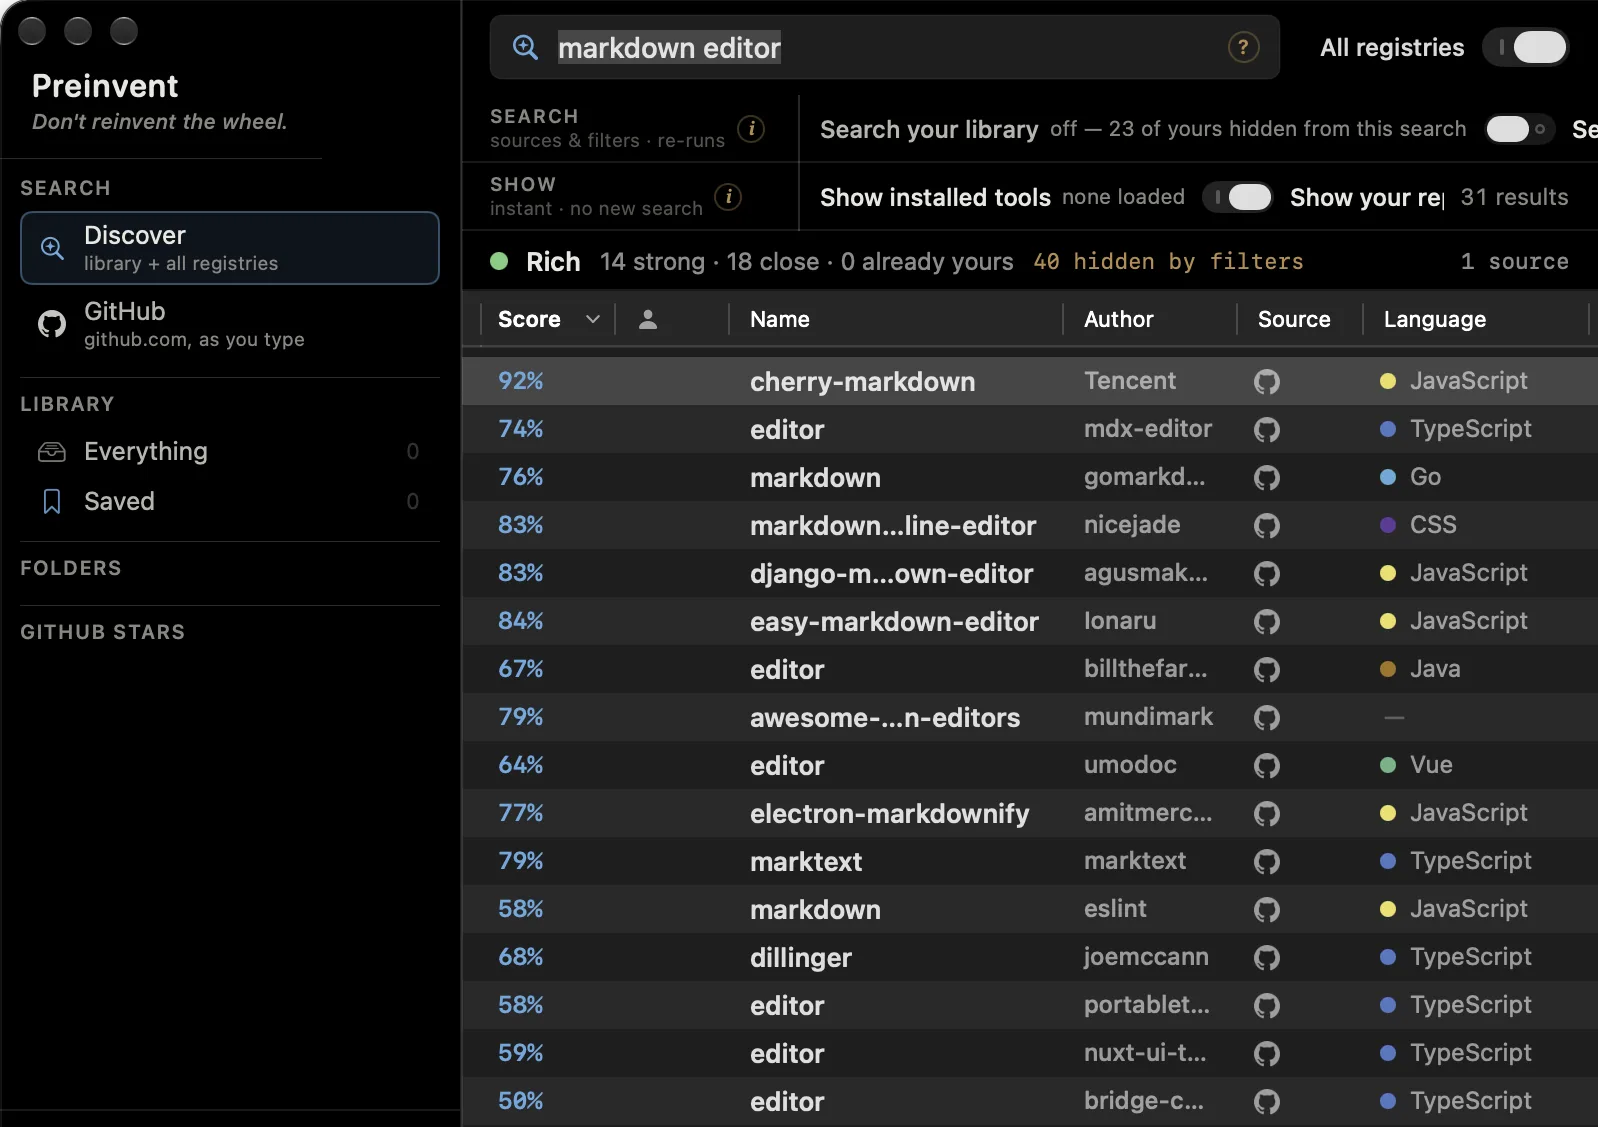
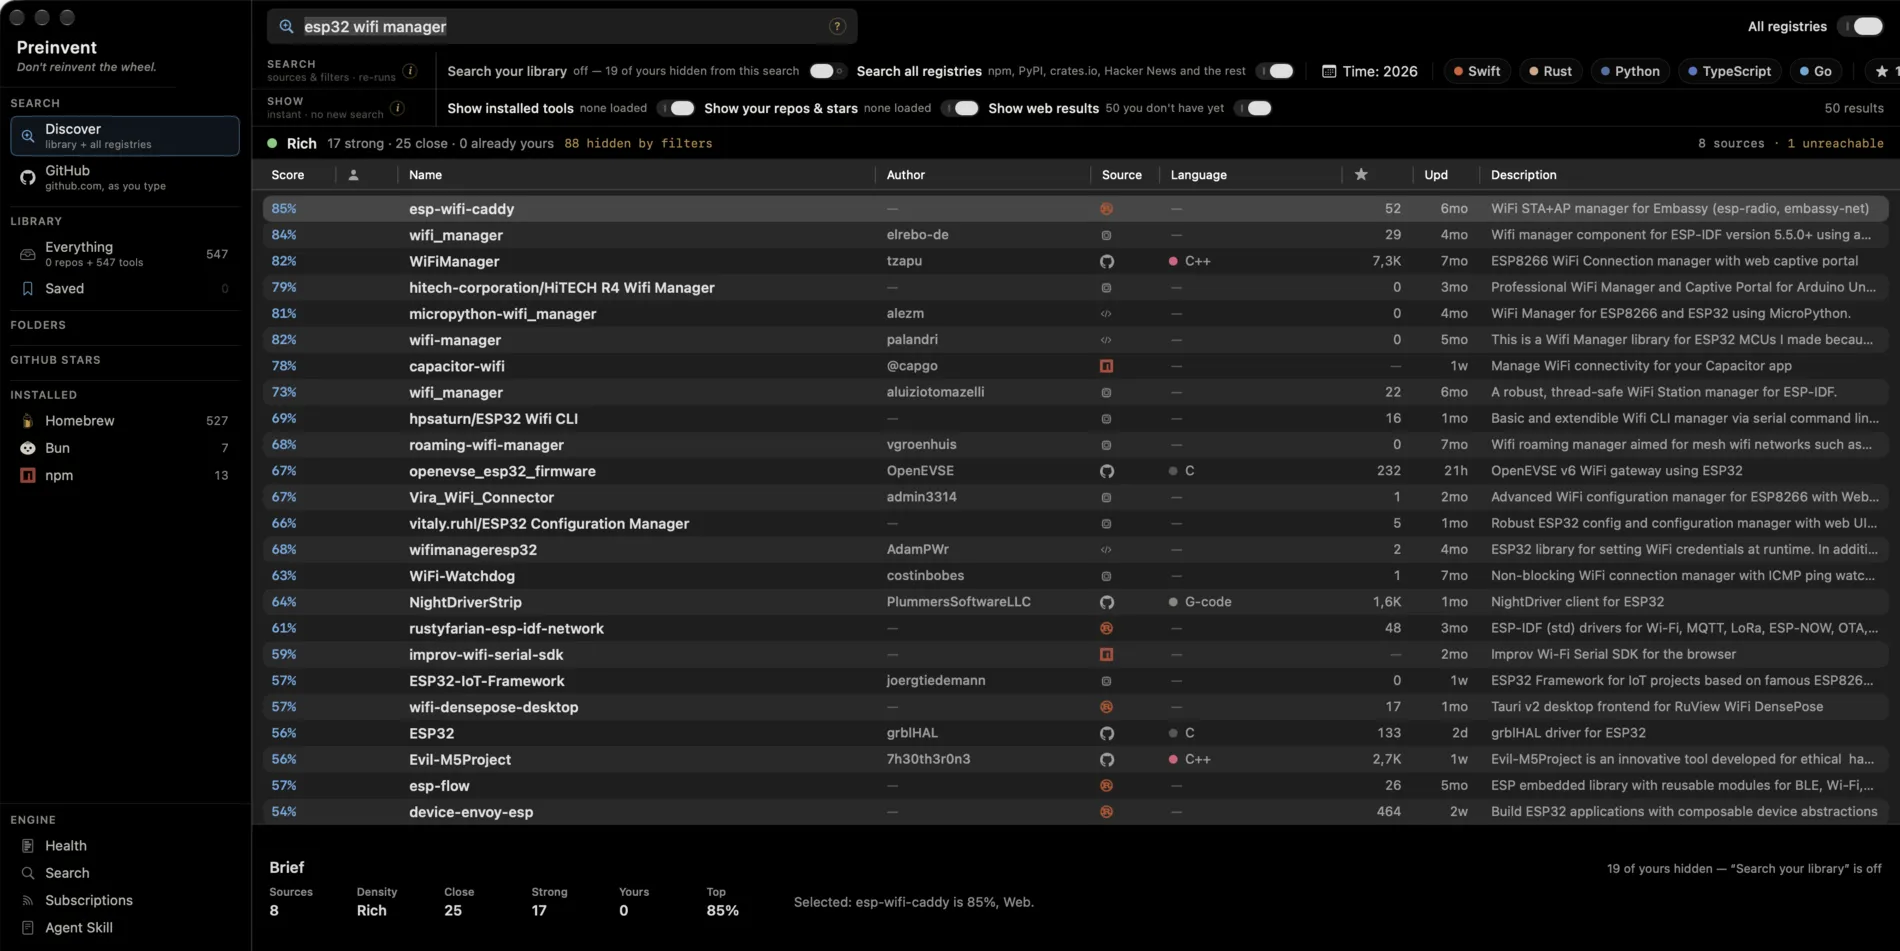
feat(preinvent): Mac screenshot from the current build, eight sources in one search
The earlier capture came from an older build that answered from one source and showed a sort arrow on Score. This one shows the same embedded search as the iPhone shot reaching eight sources in one ranked table. The image links to its full size, because the table text is small in the page.

diff --git a/preinvent/index.html b/preinvent/index.html
@@ -33,9 +33,9 @@
 
 <div class="shots">
   <figure class="shot-mac">
-    <img src="img/preinvent-mac.webp" width="1598" height="1127" loading="lazy" decoding="async"
-         alt="The Preinvent Mac app after a search for markdown editor: a ranked table of GitHub projects with match score, author and language.">
-    <figcaption>Mac: one search, one ranked table.</figcaption>
+    <a href="img/preinvent-mac.webp"><img src="img/preinvent-mac.webp" width="1900" height="951" loading="lazy" decoding="async"
+         alt="The Preinvent Mac app after a search for esp32 wifi manager: 50 results from 8 sources in one ranked table, with match score, author, source, language, stars, last update and description."></a>
+    <figcaption>Mac: one search, eight sources, one ranked table.</figcaption>
   </figure>
   <figure class="shot-phone">
     <img src="img/preinvent-iphone.webp" width="600" height="1304" loading="lazy" decoding="async"

diff --git a/site.css b/site.css
@@ -93,7 +93,7 @@ footer p { margin: 0 0 .4rem; }
 /* Screenshot pair: flex-grow equals each image's aspect ratio, so both render at the same height. */
 .shots { display: flex; gap: 1.25rem; align-items: flex-start; margin: 2.5rem 0 1rem; }
 .shots figure { margin: 0; min-width: 0; }
-.shot-mac { flex: 1.418 1 0; }
+.shot-mac { flex: 1.998 1 0; }
 .shot-phone { flex: .460 1 0; }
 .shots img { border: 1px solid var(--rule); border-radius: 10px; }
 .shot-phone img { border-radius: 14px; }

diff --git a/index.html b/index.html
@@ -34,7 +34,7 @@
 
 <h2>Projects</h2>
 <a class="item project" href="/preinvent/">
-  <img src="/preinvent/img/preinvent-mac.webp" width="1598" height="1127" loading="lazy" decoding="async" alt="">
+  <img src="/preinvent/img/preinvent-mac.webp" width="1900" height="951" loading="lazy" decoding="async" alt="">
   <div>
     <h3>Preinvent</h3>
     <p>Find what already exists before you build it. One query across your own repos, your GitHub
